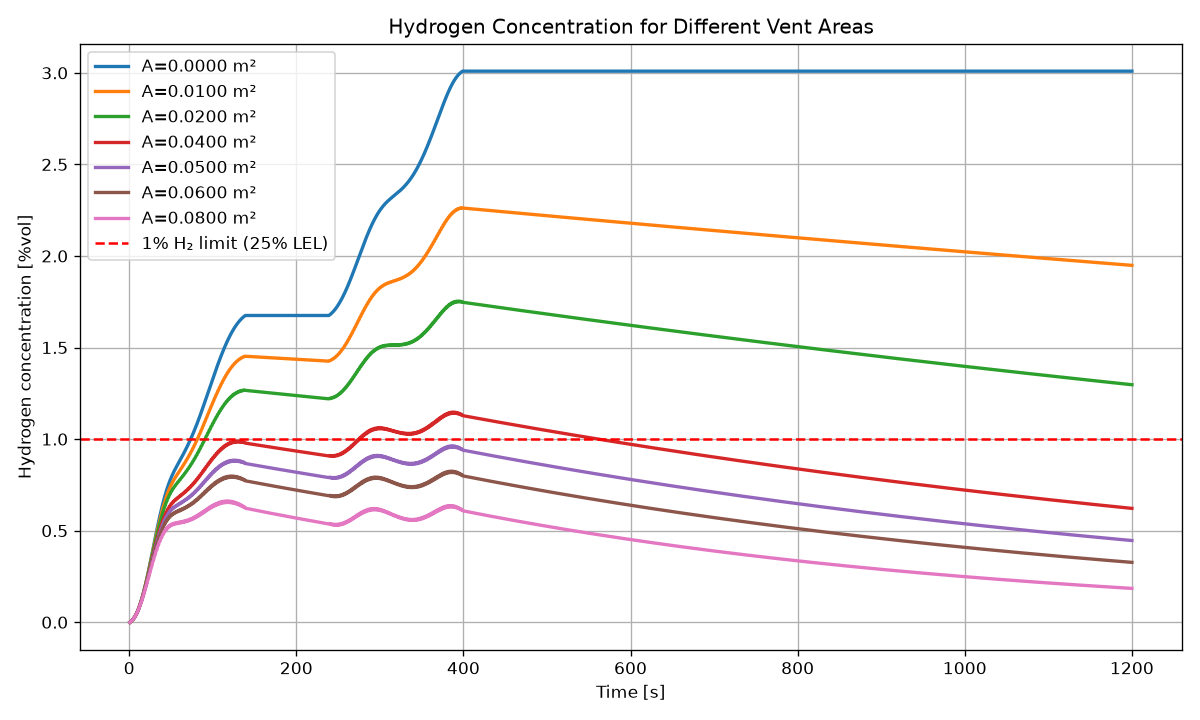
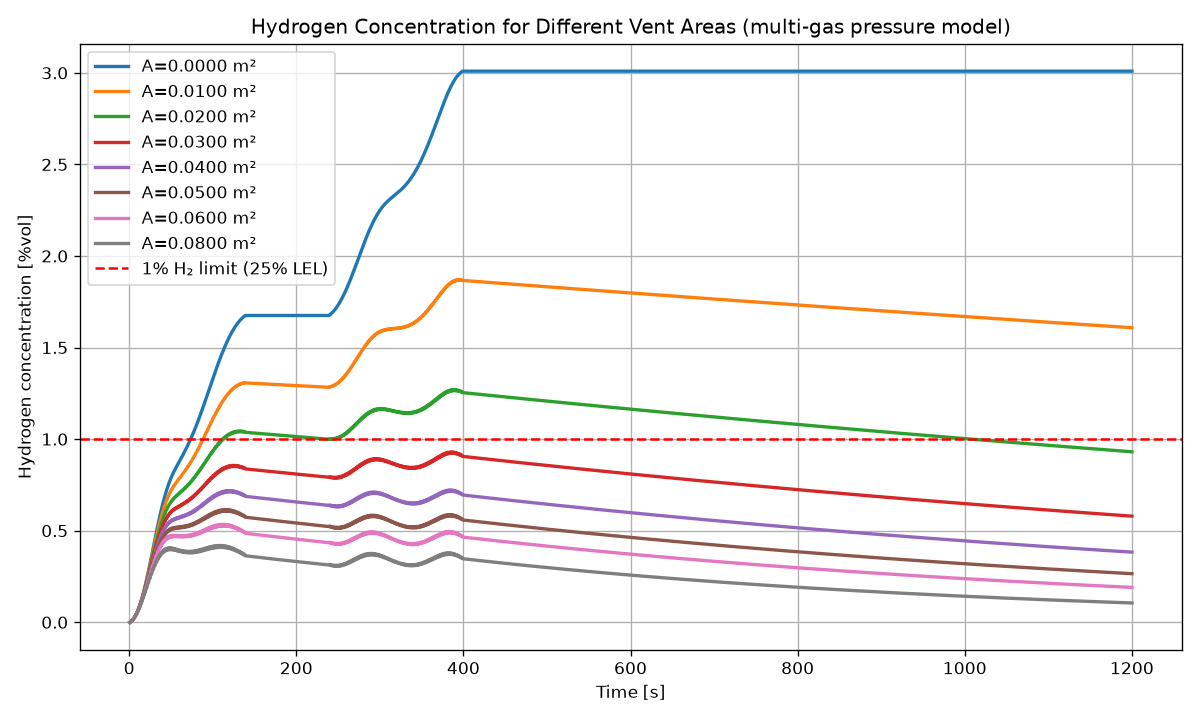
Correct gasventing.py: multi-gas pressure model (H2+CO2+CO+HC)

diff --git a/GAS/gasventing.py b/GAS/gasventing.py
@@ -35,6 +35,7 @@ areas = [
     0,
     0.01,
     0.02,
+    0.03,
     0.04,
     0.05,
     0.06,
@@ -50,6 +51,34 @@ data = pd.read_csv("H2_profile.csv")
 
 time = data["Time_s"].to_numpy()
 H2_gen = data["H2_Generation_m3_s"].to_numpy()
+
+
+
+# -------------------------
+# Multi-gas release composition
+# -------------------------
+
+# Total hydrogen volume released over the event [m3]
+V_H2_total = np.sum(H2_gen) * dt
+
+# Additional gases released during thermal runaway [m3]
+# (from UL 9540A module report)
+V_CO2 = 0.07875        # Carbon dioxide  [m3]  (78.75 L)
+V_CO = 0.24640         # Carbon monoxide [m3]  (246.40 L)
+V_HC = 0.26195         # Total hydrocarbons [m3] (261.95 L)
+
+# CO2, CO and HC are assumed to follow exactly the same
+# time-dependent release profile as hydrogen. The total gas
+# generation rate is therefore the hydrogen rate scaled by the
+# ratio of total released gas volume to hydrogen volume.
+gas_factor = (
+    V_H2_total + V_CO2 + V_CO + V_HC
+) / V_H2_total
+
+# Total (all-species) gas generation rate used for the pressure
+# balance. Hydrogen alone (H2_gen) is still used for the
+# explosion concentration assessment.
+total_gen = H2_gen * gas_factor
 
 
 
@@ -113,6 +142,8 @@ for A in areas:
 
         # -------------------------
         # Hydrogen balance
+        # (H2 only: hydrogen is the critical gas for
+        #  explosion risk; CO2/CO/HC are NOT included here)
         # -------------------------
 
         Q_generated = H2_gen[i]
@@ -136,9 +167,11 @@ for A in areas:
         # Pressure balance
         # -------------------------
 
-        # Generated gas
+        # Generated gas (ALL species: H2 + CO2 + CO + HC)
+        # Every released gas contributes to the total number of
+        # gas molecules and therefore to the internal pressure.
         n_generated = (
-            Q_generated*P_atm/(R*T)
+            total_gen[i]*P_atm/(R*T)
         )
 
 
